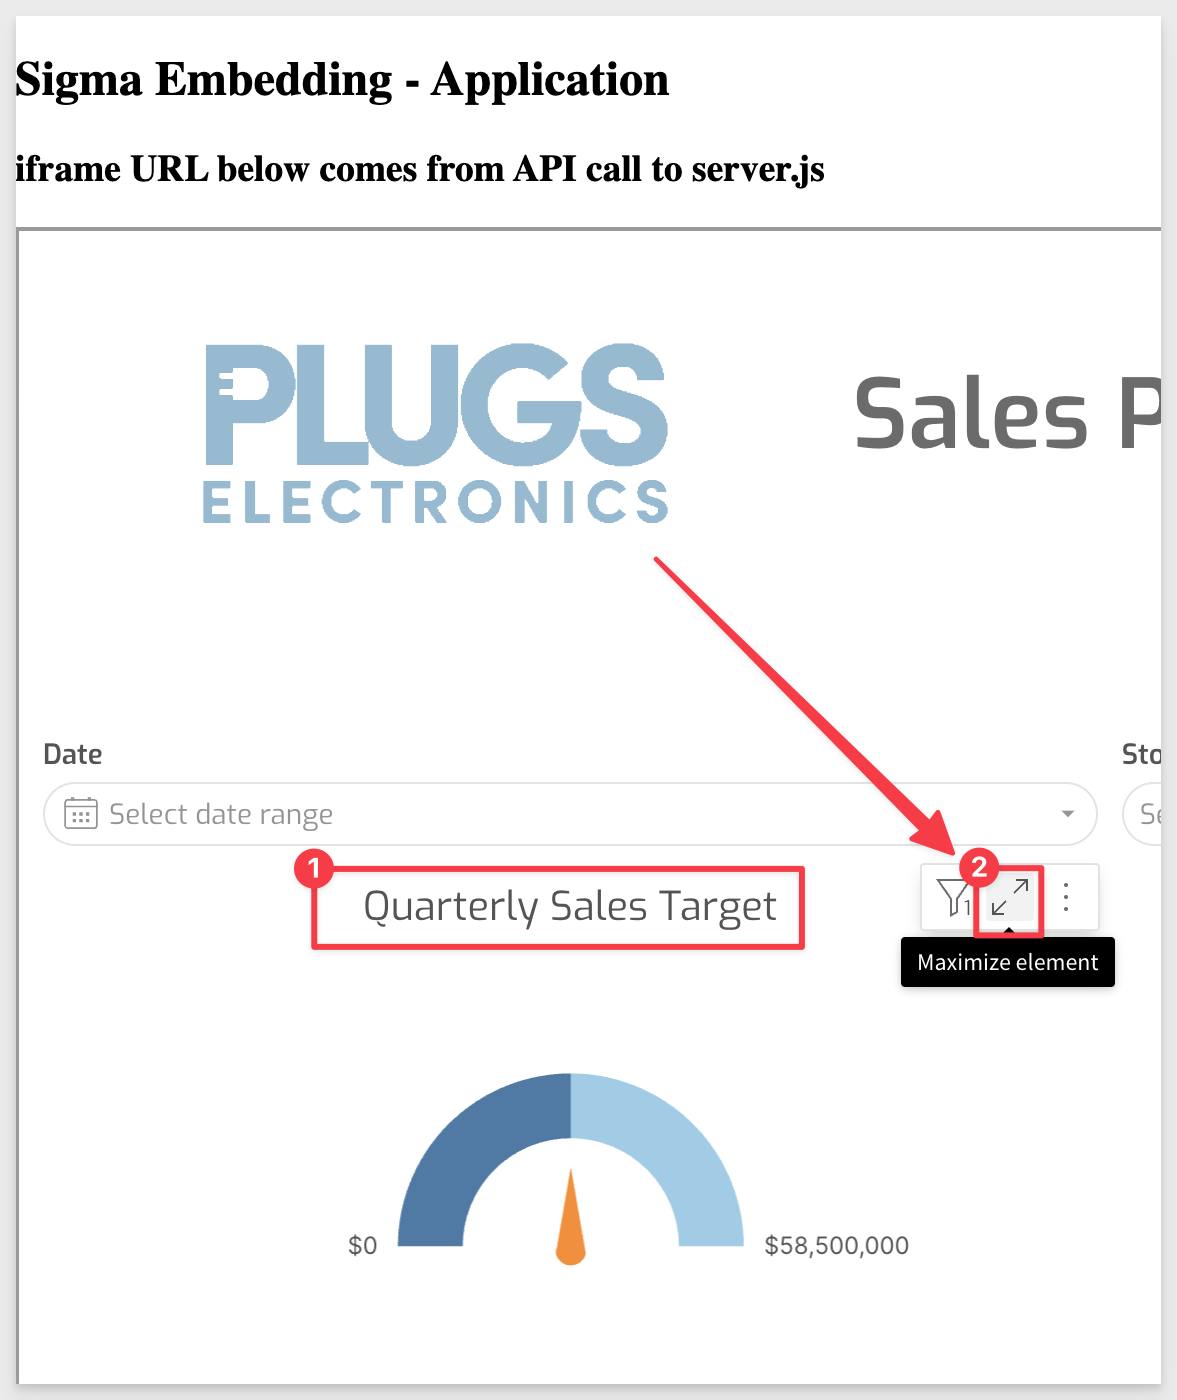
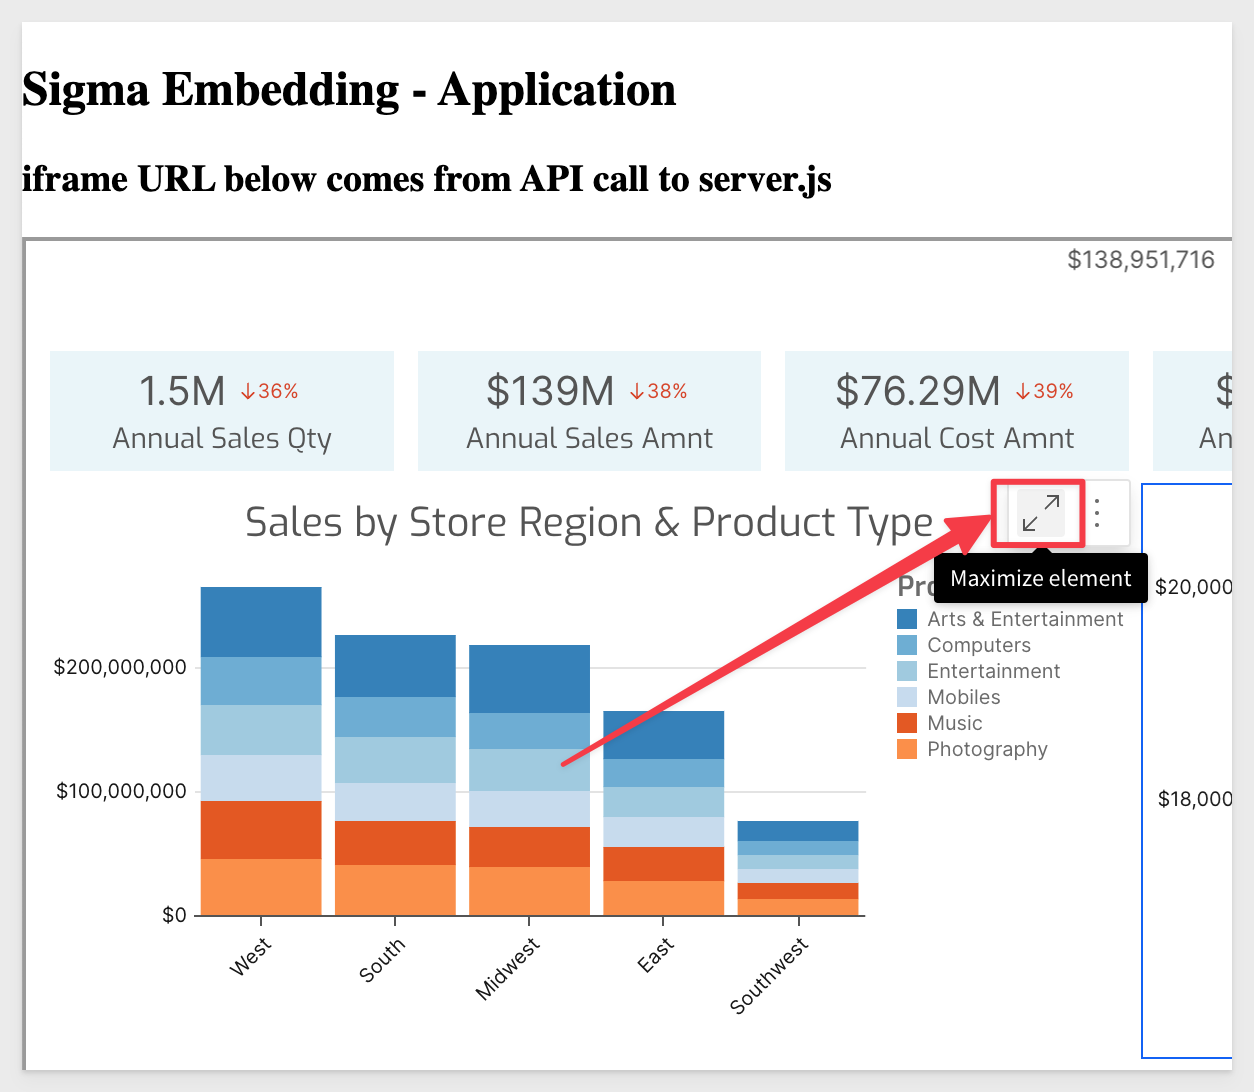
in process

diff --git a/site/sigmaguides/src/embedding_how_to_federate_access_with_sigma/embedding_how_to_federate_access_with_sigma.md b/site/sigmaguides/src/embedding_how_to_federate_access_with_sigma/embedding_how_to_federate_access_with_sigma.md
@@ -245,10 +245,10 @@ Make the following four changes to server.js:
 
 Refresh the browser page. Now we can see the dashboard which is stored in the `Common` Workpsace but we also have `Explore` rights.
 
-Now if we "`Expand` on one of the embedded Workbook's visualizations, we can see that we have the ability to explore the underlying data. 
+Now if we "`Expand` on the `Sales by Store Region & Product Type` chart, we can see that we have the ability to explore the underlying data. 
 
 <img src="assets/fa22.png" width="800"/>
-<br>
+<br><br>
 <img src="assets/fa23.png" width="800"/>
 
 
